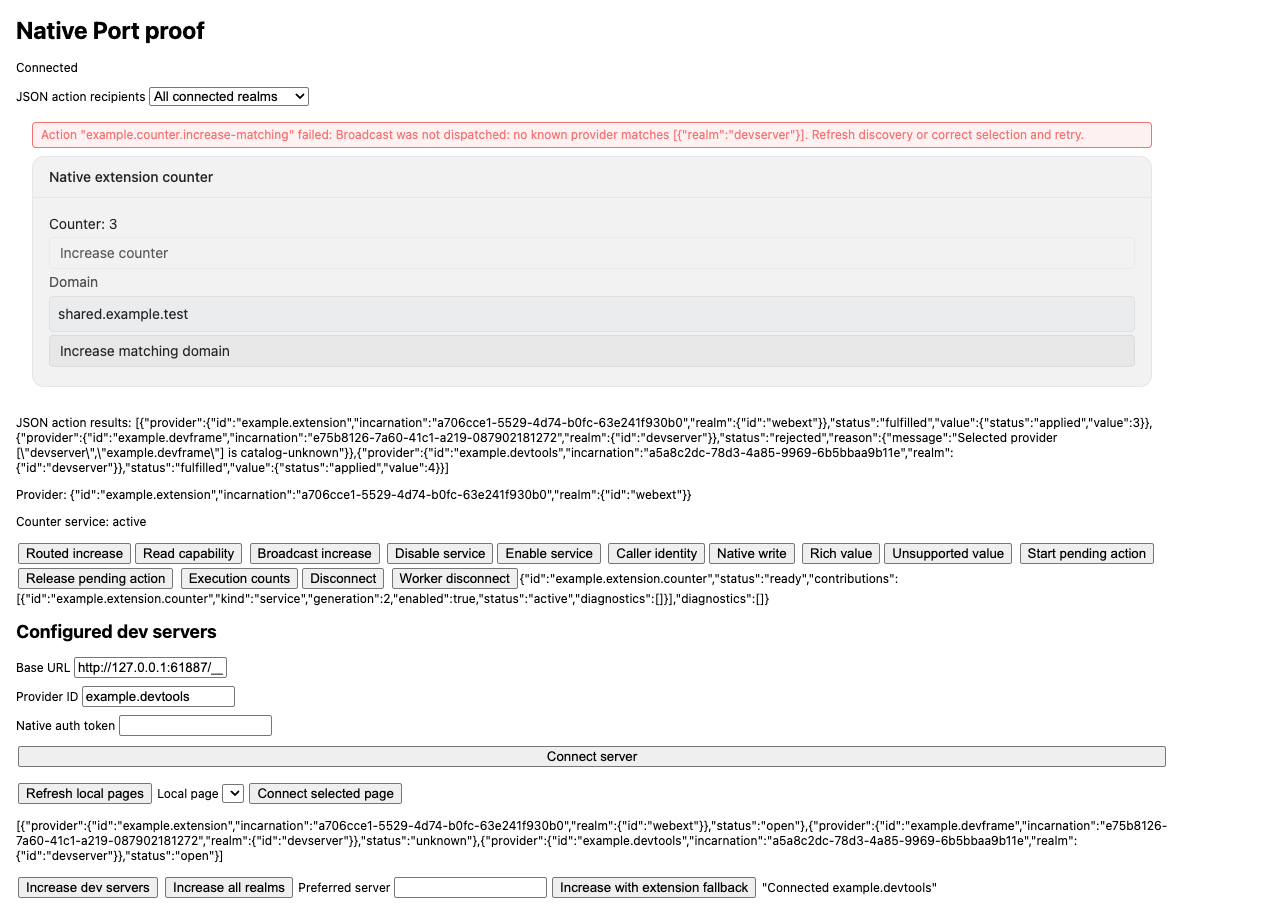
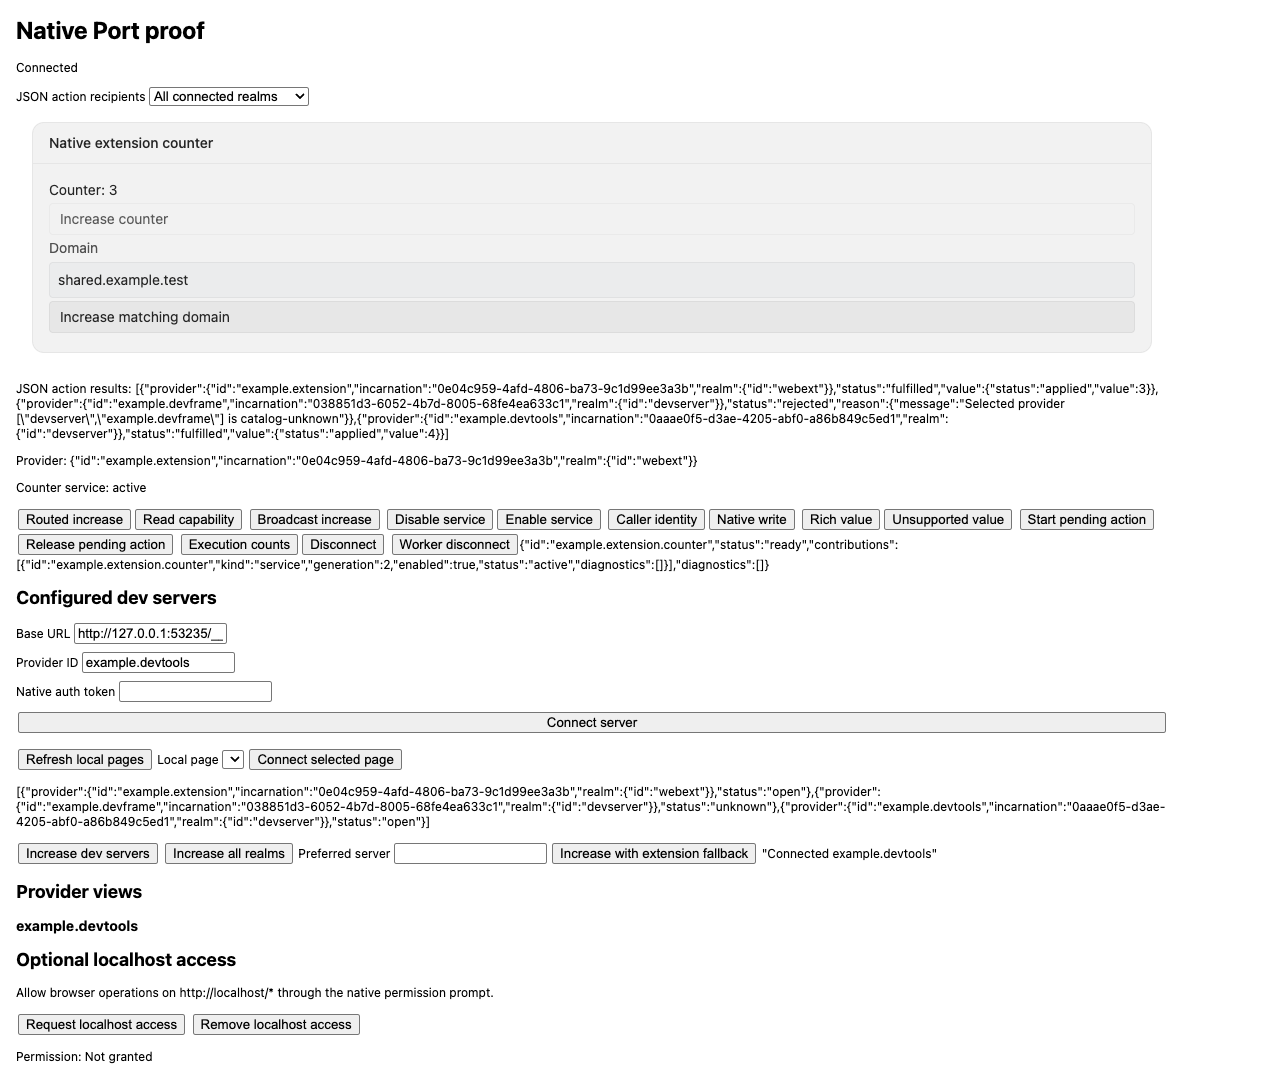
fix(renderer): backport native action error recovery (#12)

Changed region(s): [[0.0, 0.0, 0.9062, 1.0]]

diff --git a/examples/webext/tests/firefox-servers.ts b/examples/webext/tests/firefox-servers.ts
@@ -9,6 +9,7 @@ type ServerHost = Awaited<ReturnType<typeof createRemoteHost>>;
 
 export async function checkFirefoxServers(driver: Driver): Promise<void> {
   await using cleanup = new AsyncDisposableStack();
+  await checkMissingServers(driver);
   const allowedOrigins = [await driver.executeScript<string>('return location.origin')];
   await checkDeniedOrigin(driver);
   const devframe = await createRemoteHost('devframe', {
@@ -83,6 +84,11 @@ async function checkBroadcast(
   devtools: ServerHost,
 ): Promise<void> {
   await dispatchJson(driver, 'servers', 'shared.example.test');
+  const root = await driver.findElement(By.css('#renderer')).getShadowRoot();
+  await driver.wait(
+    async () => (await root.findElements(By.css('[role="alert"]'))).length === 0,
+    10_000,
+  );
   assert.equal(await readCounter(devframe), 1);
   assert.equal(await readCounter(devtools), 1);
   await counter(driver, 14);
@@ -110,6 +116,19 @@ async function checkBroadcast(
 }
 
 async function dispatchJson(driver: Driver, selection: string, domain: string): Promise<void> {
+  await clickJson(driver, selection, domain);
+  await result(driver, /fulfilled/u, '#json-result');
+}
+
+async function checkMissingServers(driver: Driver): Promise<void> {
+  await clickJson(driver, 'servers', 'shared.example.test');
+  await result(driver, /Broadcast was not dispatched/u, '#json-result');
+  const root = await driver.findElement(By.css('#renderer')).getShadowRoot();
+  const alert = await root.findElement(By.css('[role="alert"]'));
+  await driver.wait(until.elementTextContains(alert, 'Broadcast was not dispatched'), 10_000);
+}
+
+async function clickJson(driver: Driver, selection: string, domain: string): Promise<void> {
   await driver.findElement(By.css(`#json-selection option[value="${selection}"]`)).click();
   const root = await driver.findElement(By.css('#renderer')).getShadowRoot();
   const input = await root.findElement(By.css('input'));
@@ -120,7 +139,6 @@ async function dispatchJson(driver: Driver, selection: string, domain: string): 
   assert.ok(matching !== undefined);
   assert.equal(await matching.getText(), 'Increase matching domain');
   await matching.click();
-  await result(driver, /fulfilled/u, '#json-result');
 }
 
 async function counter(driver: Driver, value: number): Promise<void> {

diff --git a/examples/webext/tests/json-actions.ts b/examples/webext/tests/json-actions.ts
@@ -28,6 +28,7 @@ try {
   await page.locator('#json-selection').selectOption('servers');
   await page.getByRole('button', { name: 'Increase matching domain', exact: true }).click();
   await expect(page.locator('#json-result')).toContainText('Broadcast was not dispatched');
+  await expect(page.getByRole('alert')).toContainText('Broadcast was not dispatched');
   await expect(
     page.getByText('Dispatch failed. See action results.', { exact: true }),
   ).toBeVisible();
@@ -81,13 +82,11 @@ try {
       'reconnect retains background state without replay',
       'native input state binding and onSuccess callback',
       'native onError handles unmatched recipients; onSuccess clears the application status',
+      'native renderer clears its failed-action alert when the same action is retried successfully',
     ],
     finalCounters: { devframe: 3, devtools: 4, extension: 3 },
     pageErrors: errors,
-    limitations: [
-      'Native renderer last-error banner remains visible after successful retry',
-      'Domain applicability matrix currently runs in Chromium',
-    ],
+    limitations: ['Domain applicability matrix currently runs in Chromium'],
   };
   await writeFile('artifacts/json-actions.json', JSON.stringify(receipt, null, 2));
   console.info(styleText('green', '✅ [json-actions]'), receipt);
@@ -103,6 +102,7 @@ async function checkSelection(
 ): Promise<void> {
   await dispatch(page, 'servers', 'shared.example.test');
   await expect(page.locator('#json-result')).toContainText('"value":1');
+  await expect(page.getByRole('alert')).toHaveCount(0);
   await expect(page.getByText('Dispatch failed. See action results.', { exact: true })).toHaveCount(
     0,
   );

diff --git a/examples/webext/tests/firefox.ts b/examples/webext/tests/firefox.ts
@@ -219,6 +219,7 @@ async function saveEvidence(surfaceChecks: string[]): Promise<void> {
       'native origin admission and authentication reject unauthorized connections',
       'isolated Devframe and DevTools connections coexist with the extension provider',
       'native JSON controls broadcast to selected devserver and all-realm recipients',
+      'native renderer clears its failed-action alert when the same action is retried successfully',
       'native JSON input reaches provider-owned domain applicability on all three backends',
       'native JSON explicit provider filter excludes other recipients',
       'native JSON broadcast preserves successful siblings after server disconnect',

diff --git a/examples/webext/README.md b/examples/webext/README.md
@@ -41,7 +41,7 @@ FIREFOX_BINARY=/Applications/Firefox.app/Contents/MacOS/firefox \
 
 The driver owns a temporary profile, assigns this add-on a test-only origin UUID and removes the session on exit. Its `--allow-system-access` option permits automation of `moz-extension` documents; it is never applied to a normal browsing profile. WebDriver Classic provides working extension-page navigation. Firefox BiDi currently omits extension-page lifecycle events, causing Puppeteer navigation to time out, as tracked in [Puppeteer #14314](https://github.com/puppeteer/puppeteer/issues/14314).
 
-The [Firefox receipt](./evidence/firefox/receipt.json) records 39 scenario groups. They cover real Port RPC, native rendering/state, rich values, disconnection, catalog updates, mixed Devframe/DevTools/extension routing, native origin/auth rejection and selected-page handoff. These tests assert actual browser DOM and backend state. WebDriver Classic does not provide global page-error capture here, so this receipt makes no zero-page-error claim. The Chromium receipt still includes that assertion. Both suites open actual options pages and toolbar popups through native APIs. Both suites also exercise the real DevTools panel and browser sidebar lifetimes described below.
+The [Firefox receipt](./evidence/firefox/receipt.json) records 40 scenario groups. They cover real Port RPC, native rendering/state, rich values, disconnection, catalog updates, mixed Devframe/DevTools/extension routing, native origin/auth rejection and selected-page handoff. These tests assert actual browser DOM and backend state. WebDriver Classic does not provide global page-error capture here, so this receipt makes no zero-page-error claim. The Chromium receipt still includes that assertion. Both suites open actual options pages and toolbar popups through native APIs. Both suites also exercise the real DevTools panel and browser sidebar lifetimes described below.
 
 ![Firefox native renderer and mixed-provider state](./evidence/firefox/native-port-proof.png)
 
@@ -296,9 +296,9 @@ Each provider installs the same example plugin with its own domain list. This is
 pnpm --filter @devkit/example-webext test:json-actions
 ```
 
-The dedicated Chromium scenario clicks actual JSON-rendered controls against three real backends. It checks realm/provider selection, provider applicability, two matching servers, unknown domains, unavailable/disconnected providers, native input binding/error callbacks and no dispatch after unmount. CI runs it separately from the existing Chromium and Firefox surface suites. The Firefox suite also drives the JSON control through real Devframe, DevTools and extension providers, including devserver/all-realm selection, explicit provider filtering, shared and provider-specific applicability, unknown-domain no-ops and partial failure after server disconnect. [Firefox receipt](./evidence/firefox/receipt.json). The retained detached domain-button check and the failed-selection/retry sequence remain Chromium-specific.
+The dedicated Chromium scenario clicks actual JSON-rendered controls against three real backends. It checks realm/provider selection, provider applicability, two matching servers, unknown domains, unavailable/disconnected providers, native input binding/error callbacks and no dispatch after unmount. CI runs it separately from the existing Chromium and Firefox surface suites. The Firefox suite also drives the JSON control through real Devframe, DevTools and extension providers, including devserver/all-realm selection, explicit provider filtering, shared and provider-specific applicability, unknown-domain no-ops and partial failure after server disconnect. [Firefox receipt](./evidence/firefox/receipt.json). Both browsers assert the native alert appears for failed selection and disappears after a successful same-action retry. The retained detached domain-button check remains Chromium-specific.
 
-The reference renderer retains its last-error banner after a successful retry. This is a confirmed upstream error-lifecycle bug in `@devframes/json-render-ui`: its action bridge never resets the stored error. The example's `onSuccess` callback clears its own status and subsequent actions execute correctly. The [isolated reproduction and source diagnosis](../../docs/research/json-render-stale-action-error.md) also reproduce the failure with the unmodified npm renderer, without the extension or SDK. The current receipt and screenshot include the failed-selection/retry sequence; the dependency remains unfixed.
+The reference renderer now clears its retained error when retrying the same action through the [versioned upstream backport](../../patches/README.md#native-renderer-action-retry) from [Devframe PR 416](https://github.com/devframes/devframe/pull/416). The [isolated reproduction and source diagnosis](../../docs/research/json-render-stale-action-error.md) identify the native action bridge as the source. Chromium and Firefox regressions assert the separate native alert disappears after recovery, in addition to the application status and counter updating. No SDK error policy or replacement renderer is introduced.
 
 [Executed receipt](./evidence/json-actions.json) · [Rendered example](./evidence/json-actions.png)
 

diff --git a/docs/contracts/API-COVERAGE.md b/docs/contracts/API-COVERAGE.md
@@ -23,7 +23,7 @@ The linked groups currently associate 308 API paths with 159 distinct executed t
 
 Vitest produces its normal JSON report through its built-in reporter. The checker requires the exact file and test name to appear once with `passed` status in a successful run. Missing, renamed, skipped, todo, failed or duplicated results cannot satisfy the entry. Example and test files must exist. Test authors still own meaningful assertions; matching a passed name alone cannot assess test quality.
 
-Browser references currently link 17 distinct scenarios from three generated Chromium/Firefox receipts. They prove production-extension Port composition/disconnect and action broadcast with native development-server connections. They do not prove capability broadcast, exact native listener counts, worker suspension or the complete development/preview matrix. The checker requires each exact scenario once, the tested browser version and no captured page errors. Firefox’s explicit lack of global page-error capture remains in the report. Other receipt formats, including debugger reports written before final assertions, are not accepted as evidence by this checker.
+Browser references currently link 19 distinct scenarios from three generated Chromium/Firefox receipts. They prove production-extension Port composition/disconnect and action broadcast with native development-server connections. They do not prove capability broadcast, exact native listener counts, worker suspension or the complete development/preview matrix. The checker requires each exact scenario once, the tested browser version and no captured page errors. Firefox’s explicit lack of global page-error capture remains in the report. Other receipt formats, including debugger reports written before final assertions, are not accepted as evidence by this checker.
 
 The generated `.conformance/report.json` records every API path, examples, host/mode, test result and outstanding gap. Vitest references retain the native run timestamp. Browser references retain their receipt file modification time, which is not a test-run identity or freshness guarantee. CI runs the browser gate after its native browser commands and retains the report and generated receipts as the `api-conformance` artifact. Turbo also caches the native report as a test output, so cached tests retain their original execution timestamp. Local checks read generated reports; rerun affected tests after changes rather than treating old reports as fresh execution. For browser evidence, clear the named generated receipts first and require each command to succeed. The checker never uses committed `evidence/` snapshots. A failed gate removes the previous aggregate report before validation.
 

diff --git a/examples/json-render/README.md b/examples/json-render/README.md
@@ -65,7 +65,7 @@ Six automated tests consume built exports and real native sockets. Both hosts pr
 
 Earlier live in-app checks on both hosts confirmed initial render, action updates, validation errors, unmounting at `1`, a peer reaching `2`, remounting at `2`, and both views reaching `3`. Closing each host removed the rendered view and disabled mounting. A browser-source edit also triggered Vite's native page reload while retaining backend state. Four temporary test tabs and both launcher processes were closed afterward.
 
-The current reference renderer keeps its last error banner after a later successful action and emits an unhandled-rejection console message for the deliberately rejected action. The rejection is visible and the counter remains usable. This example records those observed upstream behaviors without suppressing the console event or adding an error-policy layer.
+The reference renderer uses the [versioned upstream retry-error backport](../../patches/README.md#native-renderer-action-retry). It clears the retained failure when retrying that same action. The maintained WebExtension browser tests verify native alert removal after recovery. This does not change rejection handling: a deliberately rejected action without a JSON `onError` callback can still emit an unhandled-rejection message. No SDK error-policy layer suppresses that behavior.
 
 The maintained Chromium command now opens reference/custom views against each actual backend. It verifies seven scenario groups per host: unchanged JSON publication, shared actions/state, native input failure, detached-view cleanup, remount and renderer replacement, unsupported component failure/recovery, and host disconnect. The retained [receipt](./evidence/renderers.json) records Chromium 153.0.8010.12, final counter `5` for each backend and zero page errors. CI runs the command after installing Chromium. Servers, browser contexts and temporary native storage are closed after each run. This does not establish Firefox custom-renderer behavior or renderer-module HMR.
 

diff --git a/patches/README.md b/patches/README.md
@@ -44,6 +44,12 @@ The exact-version patches for `@devframes/json-render@1.0.0` and `@devframes/jso
 
 The installed-package test checks cross-entry duplicate detection, discovery and replacement. The actual patched 1.0 dependency graph passes the 12-scenario Chromium proof, including denied admission and failed-mount cleanup, with zero page errors. This removes the prototype checkout requirement for the runtime APIs; full portable provider/catalog composition and browser surface coverage remain separate work.
 
+## Native renderer action retry
+
+The `@devframes/json-render-ui@1.0.0` patch also backports the two runtime lines from [Devframe PR 416](https://github.com/devframes/devframe/pull/416) at `dc7b205c`. The native action bridge clears its retained error before retrying that same action. Other actions leave the error intact; a new failure replaces it. Successful completion does not clear a failure received while that call was pending.
+
+The maintained Chromium JSON-action and Firefox production tests assert the native alert is visible after unmatched routing rejects, then disappears when the same action succeeds after connecting providers. The Chromium assertion fails against the previous patch despite successful counter updates. No SDK routing, error policy or renderer implementation is added. Remove this backport when a released renderer passes those native regressions. Like the other patches, it is private workspace installation policy, not an automatically distributed consumer fix.
+
 ## WXT development tooling
 
 The maintained extension development commands use WXT 0.21.4 and its native web-ext 10.7.0 runner. Two exact-version patches promote the independently replayed [declaration and lifecycle fixes](../docs/research/wxt-adoption-gates.md):

diff --git a/docs/research/json-render-stale-action-error.md b/docs/research/json-render-stale-action-error.md
@@ -2,6 +2,8 @@
 
 Investigation for [issue 12](https://github.com/dvcol/devkit-extension/issues/12), 2026-09-30.
 
+Implementation follow-up, 2026-10-01: [upstream PR 416](https://github.com/devframes/devframe/pull/416) contains the native reset and four source regressions. Its two runtime lines are now included in the repository's [versioned renderer patch](../../patches/README.md#native-renderer-action-retry). Maintained Chromium and Firefox tests assert native alert recovery. The experiments below describe the earlier unpatched behavior; the installed-package probe should now pass without `--candidate`.
+
 The stale banner originates in `@devframes/json-render-ui`'s `createActionBridge`. The bridge records failures but never clears its error reference. `JsonRenderView` renders that reference as an alert independently of the JSON specification's state and action callbacks. Calling this a native quirk understated a reproducible error-lifecycle defect.
 
 ## Reproduction and isolation
